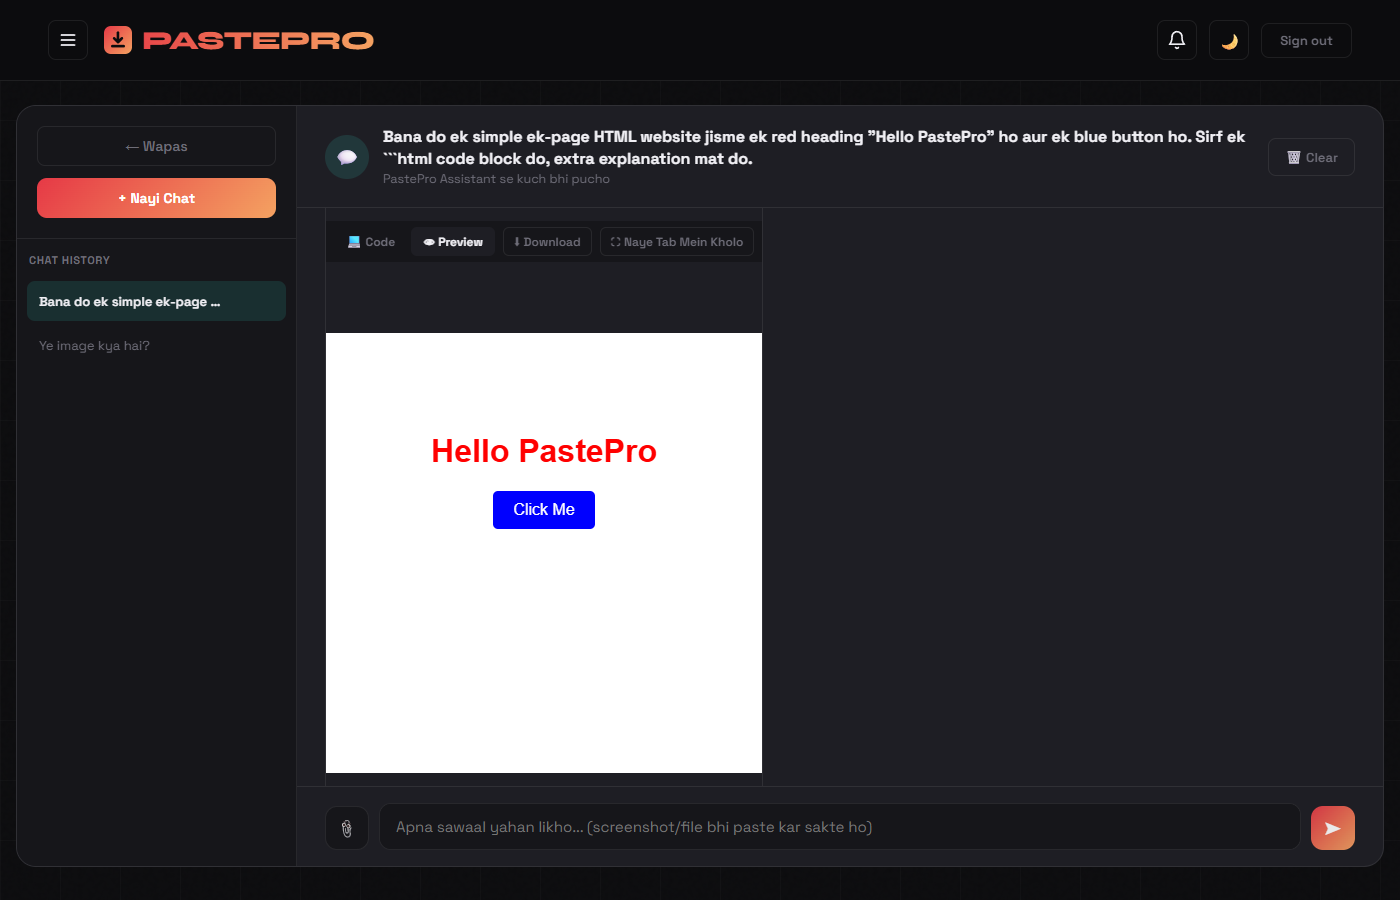
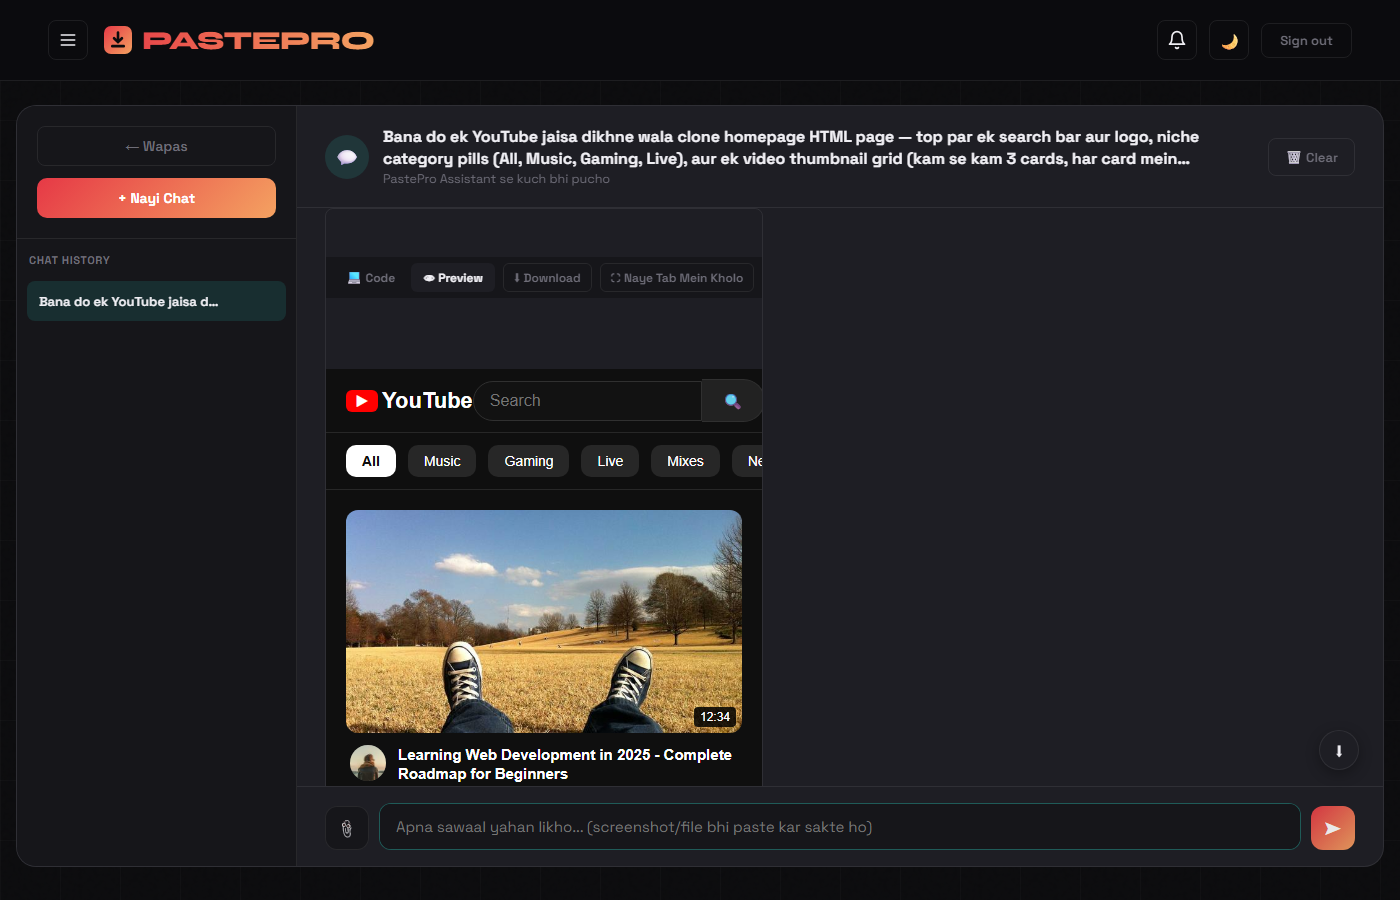
Make the Playground code-preview docs screenshot clearer and more representative
Replaced the simple "Hello PastePro" example screenshot with a richer,
more realistic one (asked the AI to build a YouTube-clone homepage),
so the Code/Preview/Download/Naye Tab Mein Kholo toolbar and the live
rendered result are both clearly visible in a real-world-looking
example. Also reworded the caption to explicitly spell out all three
actions (preview live, download the code, open in a new tab) instead
of only mentioning the preview, since the feature was already there
but not called out clearly enough in the caption text.

Verified the new screenshot loads correctly on the live docs page.

diff --git a/index.html b/index.html
@@ -1243,7 +1243,7 @@
             </div>
             <div>
               <img class="docs-shot" src="/docs-assets/playground-code-preview.png" alt="AI-generated HTML with a live Preview tab" loading="lazy" />
-              <div class="docs-shot-caption">AI-generated website — Code/Preview tabs, with a live rendered preview</div>
+              <div class="docs-shot-caption">Ask the AI to code something — Preview it live, Download the code, or open it in a new tab</div>
             </div>
           </div>
           <div class="docs-shot-wrap">
